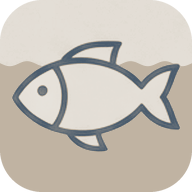
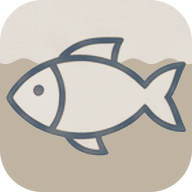
proto v3: 아이콘 가장자리 테두리 잔상 제거(안쪽 14px로 자름)
Claude-Session: https://claude.ai/code/session_012p9REnXPvjp6fop7YDYTha

Changed region(s): [[0.0312, 0.1875, 0.9688, 0.8125]]

diff --git a/proto/v3.html b/proto/v3.html
@@ -354,11 +354,11 @@ body.at-top .dropzone{display:block}
 <!-- 첫 화면: 상단 가운데에 마우스를 올리거나 화면을 터치하면 앱 아이콘이 위에서 내려옴 -->
 <div class="dropzone" id="dz" aria-hidden="true"></div>
 <nav class="drop" id="drop" aria-label="Apps">
-  <span data-label="Used to read numbers" data-bg="hov-money" data-pop="popMoney" role="button" tabindex="0"><img src="v3/moneypie-line.png" alt="Used to read numbers"></span>
-  <span data-label="Used at sea" data-bg="hov-dtmd" data-pop="popDtmd" role="button" tabindex="0"><img src="v3/dtmd-line.png" alt="Used at sea"></span>
-  <span data-label="Used back on land" data-bg="hov-dtme" data-pop="dtmeOv" role="button" tabindex="0"><img src="v3/dtme-line.png" alt="Used back on land"></span>
-  <span data-label="Used to compose" data-bg="hov-dtmc" data-pop="popDtmc" role="button" tabindex="0"><img src="v3/dtmc-line.png" alt="Used to compose"></span>
-  <span data-label="Used to touch up" data-bg="hov-mosco" data-pop="popMosco" role="button" tabindex="0"><img src="v3/mosco-line.png" alt="Used to touch up"></span>
+  <span data-label="Used to read numbers" data-bg="hov-money" data-pop="popMoney" role="button" tabindex="0"><img src="v3/moneypie-line.png?v=2" alt="Used to read numbers"></span>
+  <span data-label="Used at sea" data-bg="hov-dtmd" data-pop="popDtmd" role="button" tabindex="0"><img src="v3/dtmd-line.png?v=2" alt="Used at sea"></span>
+  <span data-label="Used back on land" data-bg="hov-dtme" data-pop="dtmeOv" role="button" tabindex="0"><img src="v3/dtme-line.png?v=2" alt="Used back on land"></span>
+  <span data-label="Used to compose" data-bg="hov-dtmc" data-pop="popDtmc" role="button" tabindex="0"><img src="v3/dtmc-line.png?v=2" alt="Used to compose"></span>
+  <span data-label="Used to touch up" data-bg="hov-mosco" data-pop="popMosco" role="button" tabindex="0"><img src="v3/mosco-line.png?v=2" alt="Used to touch up"></span>
 </nav>
 <div class="drop-lbl" id="dropLbl" aria-hidden="true"><span></span><span></span></div>
 
@@ -391,15 +391,15 @@ body.at-top .dropzone{display:block}
 <section class="blk panel sheet" id="apps"><div class="w" data-speed="1.35">
   <h2 class="reveal">Apps</h2>
   <ul class="apps">
-    <li class="app reveal"><button class="row" type="button" data-pop="popMoney"><div class="ic"><img src="v3/moneypie-line.png" alt="" loading="lazy"></div>
+    <li class="app reveal"><button class="row" type="button" data-pop="popMoney"><div class="ic"><img src="v3/moneypie-line.png?v=2" alt="" loading="lazy"></div>
       <div><p class="nm">Used to read numbers</p></div><span class="ar">→</span></button></li>
-    <li class="app reveal"><button class="row" type="button" data-pop="popDtmd"><div class="ic"><img src="v3/dtmd-line.png" alt="" loading="lazy"></div>
+    <li class="app reveal"><button class="row" type="button" data-pop="popDtmd"><div class="ic"><img src="v3/dtmd-line.png?v=2" alt="" loading="lazy"></div>
       <div><p class="nm">Used at sea</p></div><span class="ar">→</span></button></li>
-    <li class="app reveal"><button class="row" type="button" data-pop="dtmeOv"><div class="ic"><img src="v3/dtme-line.png" alt="" loading="lazy"></div>
+    <li class="app reveal"><button class="row" type="button" data-pop="dtmeOv"><div class="ic"><img src="v3/dtme-line.png?v=2" alt="" loading="lazy"></div>
       <div><p class="nm">Used back on land</p></div><span class="ar">→</span></button></li>
-    <li class="app reveal"><button class="row" type="button" data-pop="popDtmc"><div class="ic"><img src="v3/dtmc-line.png" alt="" loading="lazy"></div>
+    <li class="app reveal"><button class="row" type="button" data-pop="popDtmc"><div class="ic"><img src="v3/dtmc-line.png?v=2" alt="" loading="lazy"></div>
       <div><p class="nm">Used to compose</p></div><span class="ar">→</span></button></li>
-    <li class="app reveal"><button class="row" type="button" data-pop="popMosco"><div class="ic"><img src="v3/mosco-line.png" alt="" loading="lazy"></div>
+    <li class="app reveal"><button class="row" type="button" data-pop="popMosco"><div class="ic"><img src="v3/mosco-line.png?v=2" alt="" loading="lazy"></div>
       <div><p class="nm">Used to touch up</p></div><span class="ar">→</span></button></li>
   </ul>
 </div></section>

diff --git a/proto/HANDOFF.md b/proto/HANDOFF.md
@@ -11,7 +11,7 @@
 - 배포 확인: push 후 `sync.yml`을 workflow_dispatch로 실행하면 1~2분 안에 반영.
 
 ## v3 현재 구성 (위→아래)
-**아이콘 2026-11-19 교체**: 실사 명암 아이콘(*-duo.webp, 파일은 남겨 둠) → 선 그림 아이콘 *-line.png(192×192, 투명 둥근 사각형, 반경 22%). 출처: 사용자가 준 색 타일 5개 그림(Gemini)에서 테두리 안쪽(9px)을 잘라 명암만 남김 → 선 #4a5c6e, 바탕 #b9ab98~#f4f2ee. 모든 바탕을 같은 밝기(0.86)로 통일. 다이버 물결선(높이 약 64px, 주기 약 35px 사인)을 측정해 물고기에도 같은 수면선·물색(0.56) 적용, 물고기 몸 안은 밝게. 그림: 머니파이=동전, DTMD=다이버, DTME=물고기, DTMC=음표, MOSCO=화장대.
+**아이콘 2026-11-19 교체**: 실사 명암 아이콘(*-duo.webp, 파일은 남겨 둠) → 선 그림 아이콘 *-line.png(192×192, 투명 둥근 사각형, 반경 22%). 출처: 사용자가 준 색 타일 5개 그림(Gemini)에서 테두리 안쪽(14px, 원본 테두리 6~7px + 둥근 모서리 여유)을 잘라 명암만 남김 → 선 #4a5c6e, 바탕 #b9ab98~#f4f2ee. 모든 바탕을 같은 밝기(0.86)로 통일. 다이버 물결선(높이 약 61px, 주기 약 36.5px 사인)을 측정해 물고기에도 같은 수면선·물색(0.56) 적용, 물고기 몸 안은 밝게. 그림: 머니파이=동전, DTMD=다이버, DTME=물고기, DTMC=음표, MOSCO=화장대.
 **언어: 2026-11-16 홈페이지 전체를 영어로 전환**(lang=en). 앱 설명 = Used to read numbers(머니파이) / Used at sea(DTMD) / Used back on land(DTME) / Used to touch up(MOSCO). 소개 = "Things I made for my own use." 메뉴 = Apps · Contact. DTME 팝업도 영문(편집 창 글자 9px로 줄여 넘침 방지). 아래 항목의 한글 문구는 영문 전환 전 기록.
 1. 첫 화면: 임시 그림 3장(g1 수평선·g3 산·g4 해질녘) 8초마다 크로스페이드 + 천천히 확대(다음 그림이 1초 먼저 움직이고, 나가는 그림은 움직이며 사라짐 — 툭툭 걸림 해결). 글자 없음. 진행 표시줄만.
    - 숨은 입력: 첫 화면에서 키보드로 ART 또는 IZO → https://kangizo.com (폰은 키보드가 없어 미동작)
